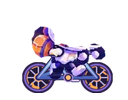
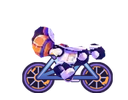
fix: restore helmet commuter pedal rotation in PNG frames

diff --git a/test/rider-frame-runtime.test.js b/test/rider-frame-runtime.test.js
@@ -3,6 +3,7 @@ import assert from "node:assert/strict";
 import { readFile } from "node:fs/promises";
 import { fileURLToPath } from "node:url";
 import { dirname, join } from "node:path";
+import {createHash} from "node:crypto";
 import {frameState,frameNumber,resolveAppearance} from "../public/rider-frame-runtime.js";
 import {normalizeRiderAppearance,createWebUser,updateWebUserRiderAppearance,readDenglemaUser} from "../src/denglema-state.js";
 import {mkdtemp,rm} from "node:fs/promises";
@@ -13,7 +14,9 @@ test("PNG character catalog provides real transparent 128x100 frames in all vari
  assert.equal(manifest.schema_version,2);
  const preset=JSON.parse(await readFile(join(root,"riders/frames/helmet-commuter/manifest.json"),"utf8"));
  const paths=[...Object.values(preset.heads),...Object.values(preset.transports).flatMap(t=>Object.values(t.layers).flat())];
- assert.equal(paths.length,28);
+ assert.equal(preset.transports.bike.frames,12,"pedaling is baked in twelve crank phases");
+ assert.equal(preset.transports.bike.fps,12);
+ assert.equal(paths.length,4+2*(12+6));
  for(const url of paths){
    assert.match(url,/^[a-z0-9/_-]+\.png$/);
    const buffer=await readFile(join(root,"riders/frames/helmet-commuter",url));
@@ -21,6 +24,20 @@ test("PNG character catalog provides real transparent 128x100 frames in all vari
    assert.equal(buffer.readUInt32BE(16),128);
    assert.equal(buffer.readUInt32BE(20),100);
    assert.equal(buffer[25],6,"RGBA PNG alpha required");
+ }
+});
+test("helmet bike uses a complete distinct 12-phase pedal cycle in both pack variants",async()=>{
+ const preset=JSON.parse(await readFile(join(root,"riders/frames/helmet-commuter/manifest.json"),"utf8"));
+ const bike=preset.transports.bike;
+ assert.equal(bike.frames,12);
+ assert.equal(bike.fps,12);
+ for(const variant of ["plain","pack"]){
+  const hashes=[];
+  for(const name of bike.layers[variant]){
+   const data=await readFile(join(root,"riders/frames/helmet-commuter",name));
+   hashes.push(createHash("sha256").update(data).digest("hex"));
+  }
+  assert.equal(new Set(hashes).size,12,"every pedal/wheel phase should render a distinct PNG: "+variant);
  }
 });
 test("frame presenter is PNG-only, supports emoji head and honors reduced-motion frame zero",()=>{

diff --git a/scripts/export-rider-frames.py b/scripts/export-rider-frames.py
@@ -1,7 +1,6 @@
 from PIL import Image
 import json,math,io
 from pathlib import Path
-import cairosvg
 ROOT=Path(__file__).resolve().parents[1]
 preset=ROOT/'public/riders/presets/helmet-commuter'
 out=ROOT/'public/riders/frames/helmet-commuter'
@@ -19,6 +18,15 @@ def place(canvas,n,dx=0,dy=0,angle=0):
     canvas.alpha_composite(im,(round(g['x']+dx),round(g['y']+dy)))
 bike_geom=rig['vehicles']['bike']
 def raster(svg):
+    # Reviewable pixel sources: pre-rasterized from the same SVG source using
+    # Chromium. No native Cairo DLL or SVG rendering is needed at runtime.
+    candidate=preset/(Path(svg).stem+'.png')
+    if candidate.exists():
+        return Image.open(candidate).convert('RGBA')
+    try:
+        import cairosvg
+    except (ImportError,OSError) as error:
+        raise RuntimeError('No baked bike PNG and CairoSVG unavailable: '+str(svg)) from error
     return Image.open(io.BytesIO(cairosvg.svg2png(url=str(preset/svg)))).convert('RGBA')
 bike_frame=raster('bike-frame.svg')
 bike_wheel=raster('bike-wheel.svg')
@@ -32,9 +40,29 @@ def vehicle(canvas,phase):
     bg.alpha_composite(bike_frame.resize((124,64),Image.Resampling.LANCZOS))
     bg=bg.resize((bike_geom['width'],bike_geom['height']),Image.Resampling.LANCZOS)
     canvas.alpha_composite(bg,(bike_geom['x'],bike_geom['y']))
+BIKE_FRAMES=12
+WALK_FRAMES=6
+
+def pedal_pose(phase):
+    # Preserve the original approved pedalTargets geometry from rider-runtime:
+    # opposite feet circle the same crank with an exact 180-degree phase shift.
+    crank=bike_geom['crank']
+    cx,cy=crank['center'];rx,ry=crank['radius']
+    a=phase*math.tau
+    return {'leg_front':(cx+rx*math.cos(a),cy+ry*math.sin(a)),
+            'leg_back': (cx-rx*math.cos(a),cy-ry*math.sin(a))}
+
+def pedal_leg(canvas,name,target,lift):
+    g=rig['limbs'][name]
+    foot_x=g['x']+g['foot_anchor'][0]
+    foot_y=g['y']+g['foot_anchor'][1]
+    # The original runtime applies -12 to the core and compensates the visual
+    # distance halfway towards the pedal, yielding pedal world Y + lift / 2.
+    place(canvas,name,dx=target[0]-foot_x,dy=target[1]+lift/2-foot_y)
+
 def export_frame(mode,i,backpack):
     c=Image.new('RGBA',(W,H))
-    phase=i/6
+    phase=i/(BIKE_FRAMES if mode=='bike' else WALK_FRAMES)
     if mode=='bike':vehicle(c,phase)
     if mode=='walk':
         x=math.sin(phase*2*math.pi)
@@ -46,24 +74,19 @@ def export_frame(mode,i,backpack):
         place(c,'arm_front',dx=3*x,angle=13*x)
     else:
         lift=-12
-        b=math.sin(phase*2*math.pi)
-        place(c,'leg_back',dx=5*b,dy=lift+3*b)
+        feet=pedal_pose(phase)
+        pedal_leg(c,'leg_back',feet['leg_back'],lift)
         if backpack:place(c,'backpack',dy=lift)
         place(c,'arm_back',dx=12,dy=lift)
         place(c,'body',dy=lift)
-        place(c,'leg_front',dx=-5*b,dy=lift-3*b)
+        pedal_leg(c,'leg_front',feet['leg_front'],lift)
         place(c,'arm_front',dx=12,dy=lift)
     d=out/mode/('pack' if backpack else 'plain')
     d.mkdir(parents=True,exist_ok=True)
     c.save(d/f'{i:02d}.png',optimize=True)
-for mode in ['walk','bike']:
+for mode in ['bike']:
     for pack in [False,True]:
-        for i in range(6):export_frame(mode,i,pack)
-for emotion,source in [('neutral','head'),('happy','head-happy'),('focused','head-focused'),('tired','head-tired')]:
-    im=Image.open(preset/(source+'.webp')).convert('RGBA')
-    g=rig['slots']['head']
-    im=im.resize((g['width'],g['height']),Image.Resampling.LANCZOS)
-    c=Image.new('RGBA',(W,H));c.alpha_composite(im,(g['x'],g['y']))
-    hd=out/'heads';hd.mkdir(exist_ok=True)
-    c.save(hd/(emotion+'.png'),optimize=True)
+        for i in range(BIKE_FRAMES):export_frame(mode,i,pack)
+# walk art is intentionally left untouched: this patch only restores pedaling.
+# Expression heads and the original walk PNGs are not regenerated.
 print('exported', len(list(out.rglob('*.png'))),'PNG frames')

diff --git a/docs/denglema-default-rider-v0.1.md b/docs/denglema-default-rider-v0.1.md
@@ -130,3 +130,13 @@ public/riders/
 六帧逐帧检查后确认前后脚虽然交换 X 位置，但 **`leg_front.webp` 的鞋尖固定向右，`leg_back.webp` 的鞋尖固定向左**，因此换到后方的脚不自然。现在步行时按当前两脚的实际屏幕 X 顺序确定哪只脚领先，必要时只水平镜像腿图片内容，使**领先脚朝前、后摆脚朝后**；并校正镜像导致的脚掌位移，保持接地点不变。骑行仍用原始腿图片，不引入新的载具绑定逻辑。
 
 [查看更新后的六个关键姿态（真实浏览器截图）](qa/riders/helmet-walk-six-keyframes.png)。逐帧数据、镜像前后脚坐标与骑行恢复都已纳入验收；动态离线 HTML 继续使用 [原入口](previews/helmet-commuter-motion-qa.html)。
+
+## 11. 2026-10-23 PNG 踩踏轨迹回归修复
+
+在 Rider Pack #81 将默认角色切换为 6 帧 PNG 后，原来由 `pedalTargets()` 驱动的两脚绕曲柄运动被简化成了左右 ±5px 的正弦偏移；默认角色看起来像把脚固定在横向滑动的踏板上。旧 SVG Rig 路径保留在仓库里，但不再作为首页人物渲染器使用。
+
+- `scripts/export-rider-frames.py` 重新复用 `compact-side-right-v1.json` 中的 `crank.center/radius` 轨迹，前后脚按严格 180° 相位差逐帧输出。
+- bike 的每个 plain/pack 序列改为 **12 帧、12 FPS**，wheel 和踏板随相位一起烘焙到 PNG；walk 六帧与既有头部素材不变。
+- 自行车的 SVG 源文件不进入运行时；为方便 Windows 上不安装 Cairo 也能重新导出，提供由相同 SVG 渲染的 `bike-frame.png`、`bike-wheel.png` 两份构建输入。
+- Chrome 在 `LAPTOP-PJM7MTNJ` 的 `/rider-preview?preset=helmet-commuter&mode=bike` 验收，实际 frame-body URL 随时间变化、128×100 PNG 正确解码，截图归档于 `docs/qa/riders/helmet-pedaling-restored-windows.png`。
+- 这是 PNG 离散 12 帧复原，不等同于旧运行时的无限细分实时关节/车轮旋转；若需要更平滑的轮轴运动，应在未来单独升级 PNG/Vehicle Pack 合同，而不是重新启用已停用的 SVG runtime。
